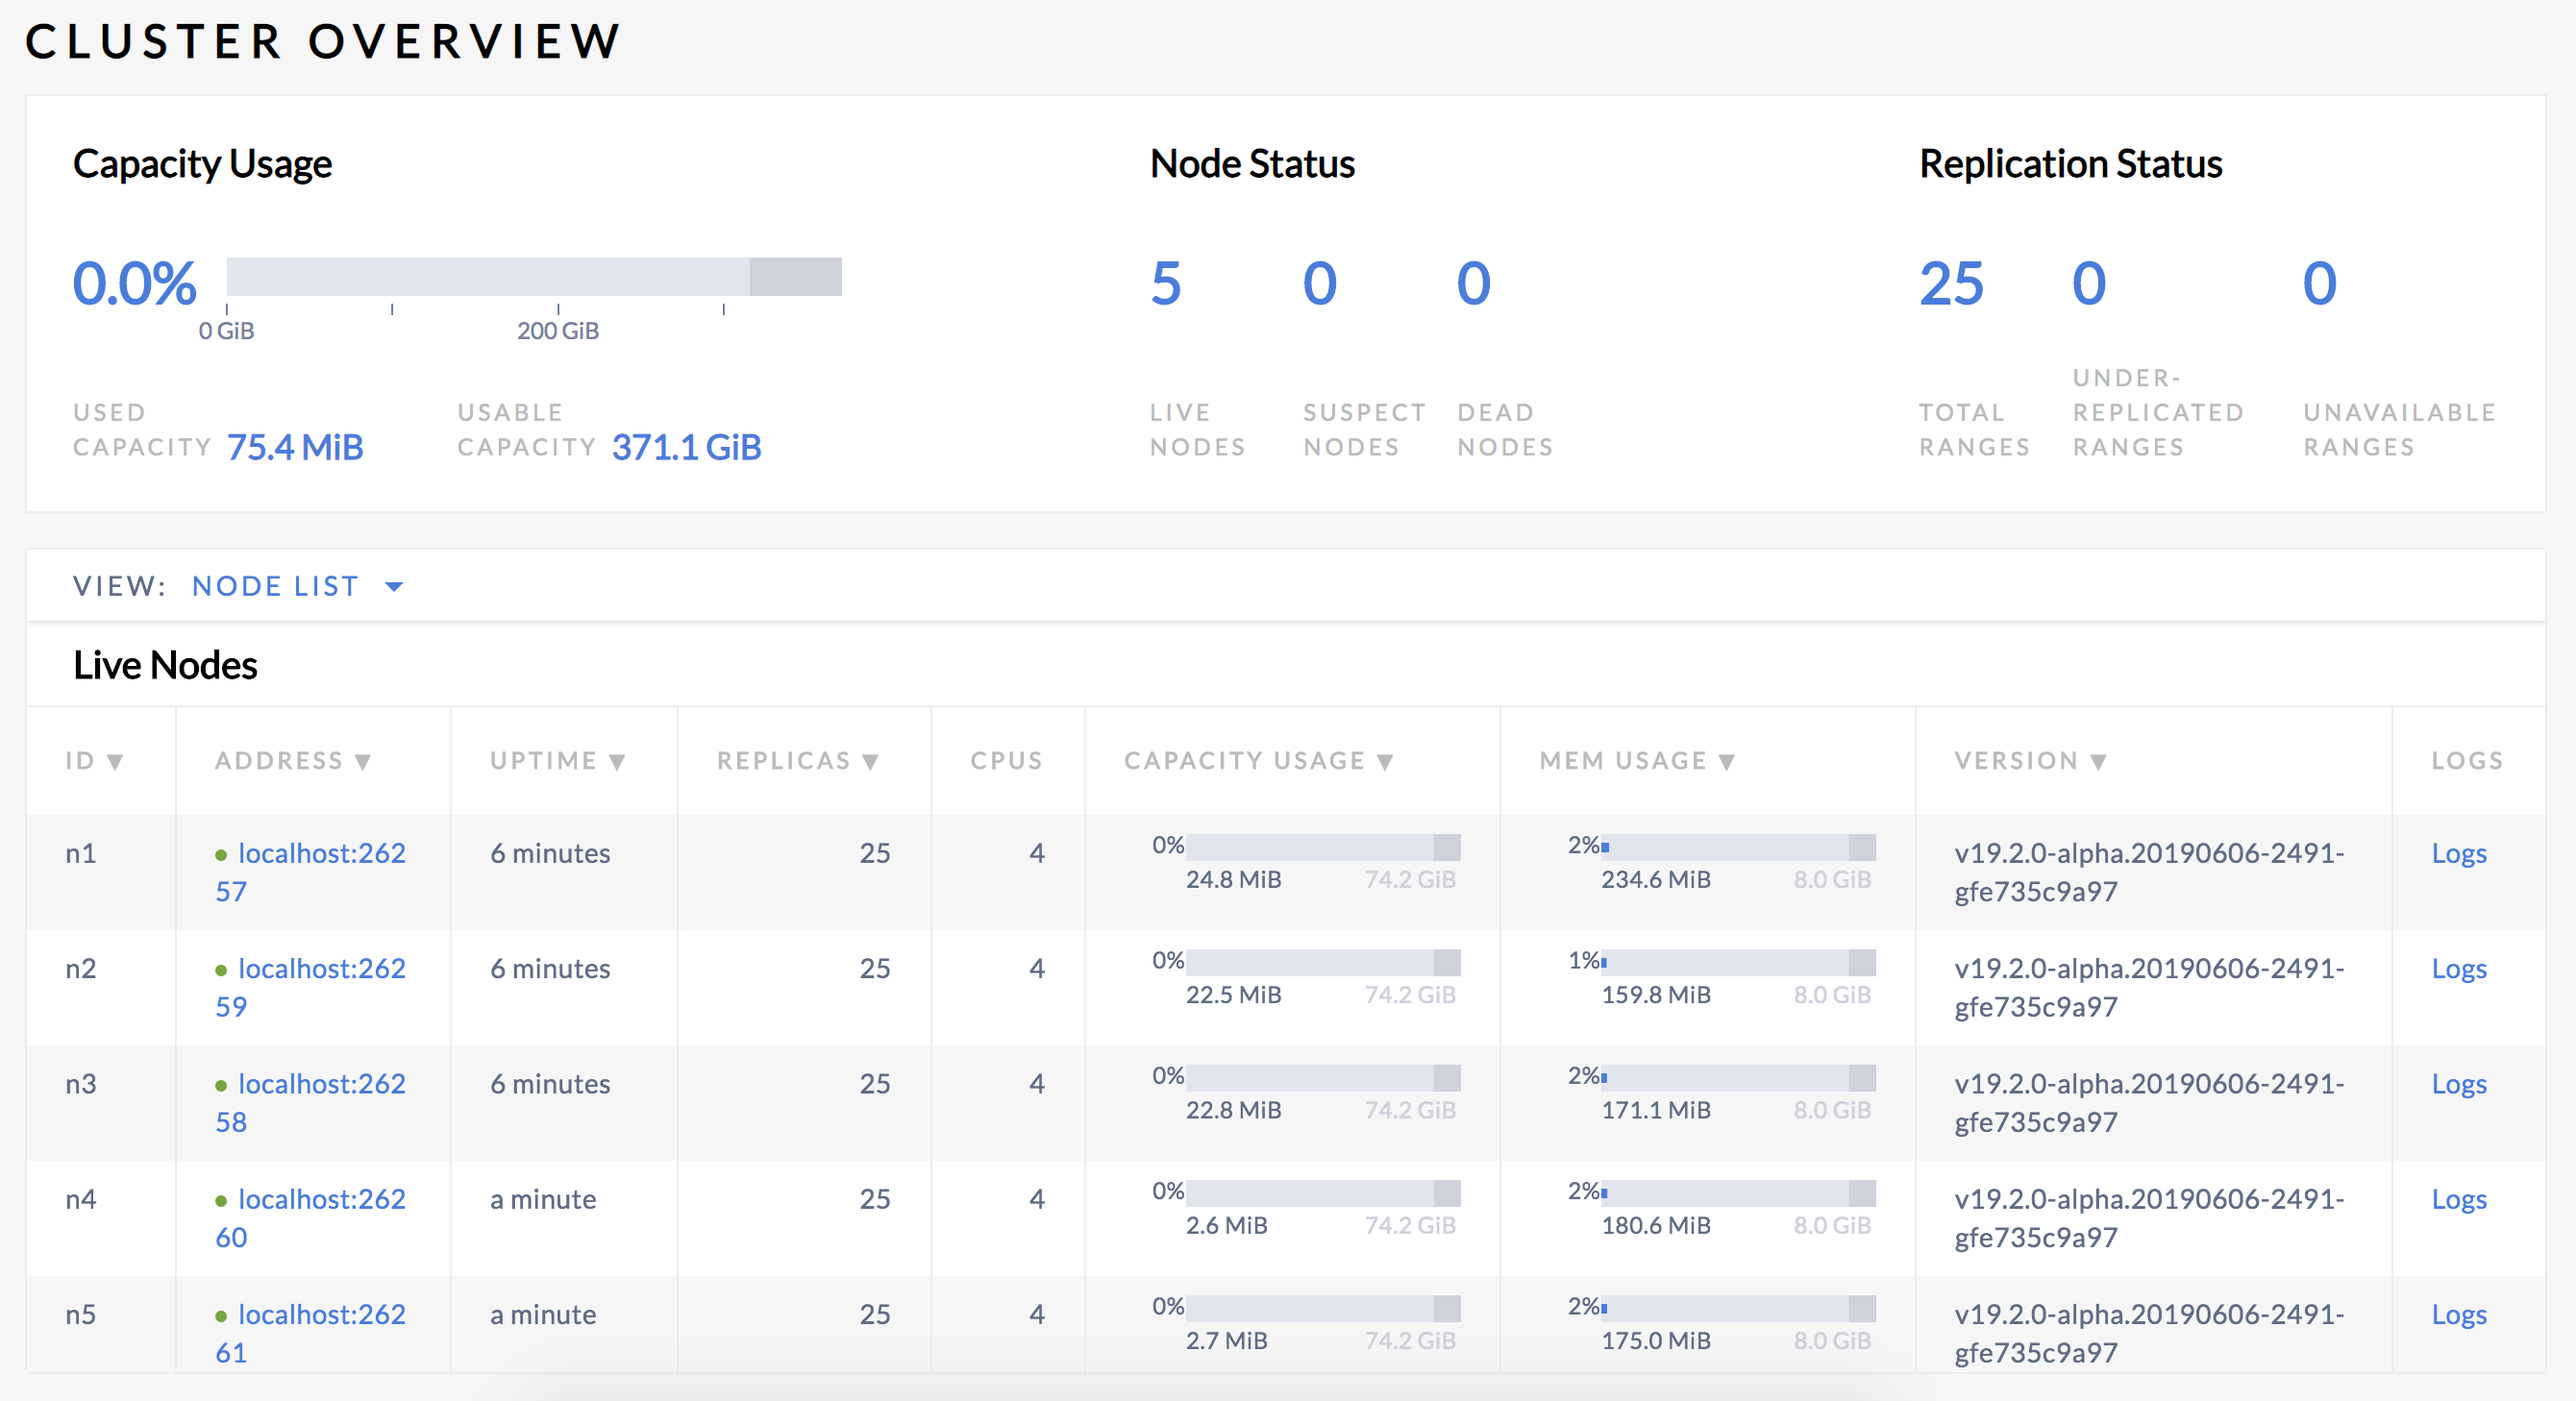
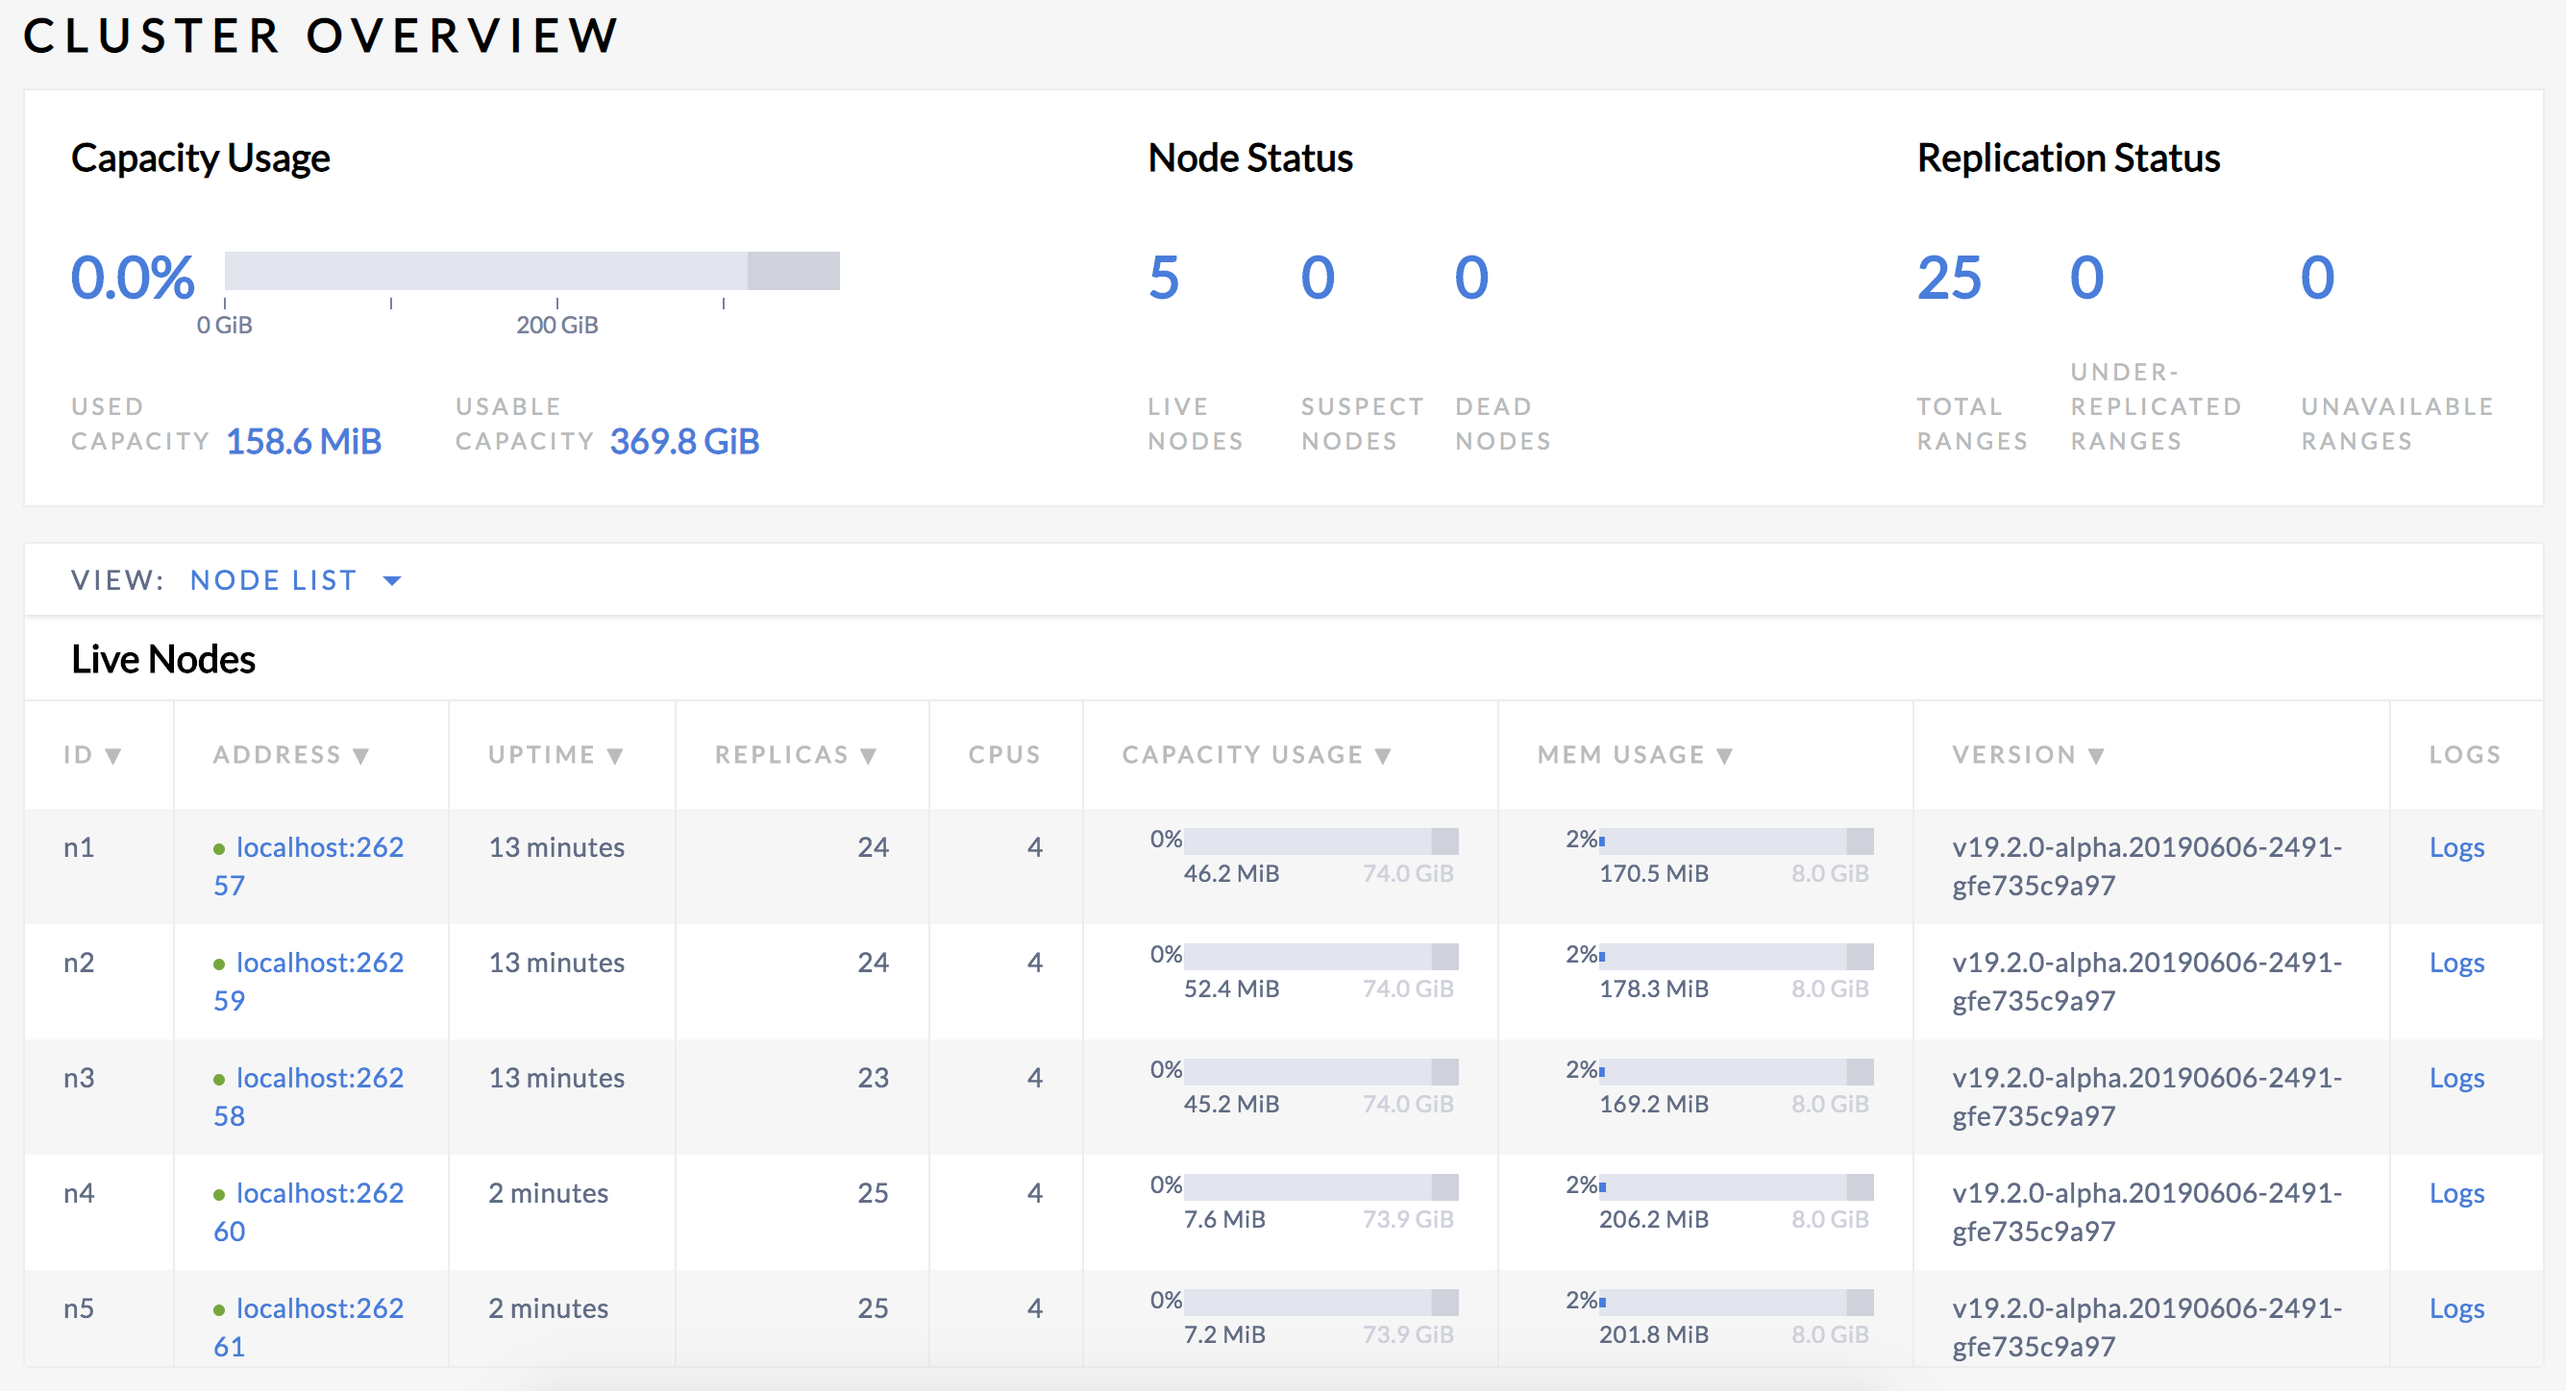
Consolidate replication and rebalancing tutorials
The tutorials were overly redundant and work better as a single page.

diff --git a/v19.2/demo-replication-and-rebalancing.md b/v19.2/demo-replication-and-rebalancing.md
@@ -1,10 +1,13 @@
 ---
-title: Data Replication
-summary: Use a local cluster to explore how CockroachDB replicates and distributes data.
+title: Replication and Rebalancing
+summary: Use a local cluster to explore how CockroachDB replicates and rebalances data.
 toc: true
+redirect_from:
+- demo-automatic-rebalancing.html
+- demo-data-replication.html
 ---
 
-This page walks you through a simple demonstration of how CockroachDB replicates and distributes data. Starting with a 3-node local cluster, you'll write some data and verify that it replicates in triplicate by default. You'll then update the cluster to replicate 5 ways, add 2 more nodes, and again watch how all existing replicas are re-replicated to the new nodes.
+This page walks you through a simple demonstration of how CockroachDB replicates, distributes, and rebalances data. Starting with a 3-node local cluster, you'll write some data and verify that it replicates in triplicate by default. You'll then add 2 more nodes and watch how CockroachDB automatically rebalances replicas to efficiently use all available capacity.
 
 ## Before you begin
 
@@ -12,7 +15,7 @@ Make sure you have already [installed CockroachDB](install-cockroachdb.html).
 
 ## Step 1. Start a 3-node cluster
 
-1. Use the [`cockroach start`](start-a-node.html) command to start 6 nodes:
+1. Use the [`cockroach start`](start-a-node.html) command to start 3 nodes:
 
     {% include copy-clipboard.html %}
     ~~~ shell
@@ -141,22 +144,24 @@ Make sure you have already [installed CockroachDB](install-cockroachdb.html).
 
 ## Step 3. Verify replication
 
-By default, CockroachDB replicates all data 3 times and balances it across all nodes. To verify this, go to the Admin UI at <a href="http://localhost:8080" data-proofer-ignore>http://localhost:8080</a>:
+1. To understand replication in CockroachDB, it's important to review a few concepts from the [architecture](architecture/overview.html):
 
-<img src="{{ 'images/v19.2/replication1.png' | relative_url }}" alt="CockroachDB Admin UI" style="border:1px solid #eee;max-width:100%" />
 
-Note that the replica count is identical across all three nodes, indicating that all data in the cluster has been replicated 3 times; there's a copy of every piece of data on each node.
+    Concept | Description
+    --------|------------
+    **Range** | CockroachDB stores all user data (tables, indexes, etc.) and almost all system data in a giant sorted map of key-value pairs. This keyspace is divided into "ranges", contiguous chunks of the keyspace, so that every key can always be found in a single range.<br><br>From a SQL perspective, a table and its secondary indexes initially map to a single range, where each key-value pair in the range represents a single row in the table (also called the primary index because the table is sorted by the primary key) or a single row in a secondary index. As soon as that range reaches 64 MiB in size, it splits into two ranges. This process continues for these new ranges as the table and its indexes continue growing.
+    **Replica** | CockroachDB replicates each range (3 times by default) and stores each replica on a different node.
 
-## Step 4. Increase the replication factor
+2. With those concepts in mind, open the Admin UI at <a href="http://localhost:8080" data-proofer-ignore>http://localhost:8080</a> and view the **Node List**:
 
-Now use the [`ALTER RANGE ... CONFIGURE ZONE`](configure-zone.html) statement to change the cluster's `.default` replication factor to 5:
+    <img src="{{ 'images/v19.2/replication1.png' | relative_url }}" alt="CockroachDB Admin UI" style="border:1px solid #eee;max-width:100%" />
 
-{% include copy-clipboard.html %}
-~~~ shell
-$ cockroach sql --execute="ALTER RANGE default CONFIGURE ZONE USING num_replicas=5;" --insecure --host=localhost:26257
-~~~
+    Note that the **Replicas** count is the same on all three nodes. This indicates:
+    - There are this many "ranges" of data in the cluster. These are mostly internal "system" ranges since you haven't added much table data.
+    - Each range has been replicated 3 times (according to the CockroachDB default).
+    - For each range, each replica is stored on different nodes.
 
-## Step 5. Add two more nodes
+## Step 4. Add two more nodes
 
 {% include copy-clipboard.html %}
 ~~~ shell
@@ -180,13 +185,15 @@ $ cockroach start \
 --background
 ~~~
 
-## Step 6. Watch data replicate to the new nodes
+## Step 5. Watch data rebalance
 
-Back in the Admin UI, you'll see that there are now 5 nodes listed. At first, the replica count will be lower for nodes 4 and 5. But because you changed the default replication factor to 5, very soon, the replica count will be identical across all 5 nodes, indicating that all data in the cluster has been replicated 5 times.
+Back in the Admin UI, you'll see that there are now 5 nodes listed:
 
 <img src="{{ 'images/v19.2/replication2.png' | relative_url }}" alt="CockroachDB Admin UI" style="border:1px solid #eee;max-width:100%" />
 
-## Step 7. Stop the cluster
+At first, the replica count will be lower for nodes 4 and 5. Very soon, however, you'll see those numbers even out across all nodes, indicating that data is being automatically rebalanced to utilize the additional capacity of the new nodes.
+
+## Step 6. Stop the cluster
 
 1. When you're done with your test cluster, use the [`cockroach quit`](stop-a-node.html) command to gracefully shut down each node.
 

diff --git a/v19.2/secure-a-cluster.md b/v19.2/secure-a-cluster.md
@@ -372,7 +372,7 @@ Adding capacity is as simple as starting more nodes with `cockroach start`.
 
     <img src="{{ 'images/v19.2/admin_ui_cluster_overview_5_nodes.png' | relative_url }}" alt="CockroachDB Admin UI" style="border:1px solid #eee;max-width:100%" />
 
-    At first, the replica count will be lower for nodes 4 and 5. Very soon, however, you'll see those numbers even out across all nodes, indicating that data is being [automatically rebalanced](demo-automatic-rebalancing.html) to utilize the additional capacity of the new nodes.
+    At first, the replica count will be lower for nodes 4 and 5. Very soon, however, you'll see those numbers even out across all nodes, indicating that data is being [automatically rebalanced](demo-replication-and-rebalancing.html) to utilize the additional capacity of the new nodes.
 
 ## Step 8. Stop the cluster
 

diff --git a/v19.2/start-a-local-cluster.md b/v19.2/start-a-local-cluster.md
@@ -326,7 +326,7 @@ Adding capacity is as simple as starting more nodes with `cockroach start`.
 
     <img src="{{ 'images/v19.2/admin_ui_cluster_overview_5_nodes.png' | relative_url }}" alt="CockroachDB Admin UI" style="border:1px solid #eee;max-width:100%" />
 
-    At first, the replica count will be lower for nodes 4 and 5. Very soon, however, you'll see those numbers even out across all nodes, indicating that data is being [automatically rebalanced](demo-automatic-rebalancing.html) to utilize the additional capacity of the new nodes.
+    At first, the replica count will be lower for nodes 4 and 5. Very soon, however, you'll see those numbers even out across all nodes, indicating that data is being [automatically rebalanced](demo-replication-and-rebalancing.html) to utilize the additional capacity of the new nodes.
 
 ## Step 7. Stop the cluster
 

diff --git a/_includes/v19.2/misc/explore-benefits-see-also.md b/_includes/v19.2/misc/explore-benefits-see-also.md
@@ -1,6 +1,5 @@
-- [Data Replication](demo-data-replication.html)
+- [Replication & Rebalancing](demo-replication-and-rebalancing.html)
 - [Fault Tolerance & Recovery](demo-fault-tolerance-and-recovery.html)
-- [Automatic Rebalancing](demo-automatic-rebalancing.html)
 - [Serializable Transactions](demo-serializable.html)
 - [Cross-Cloud Migration](demo-automatic-cloud-migration.html)
 - [Follow-the-Workload](demo-follow-the-workload.html)
